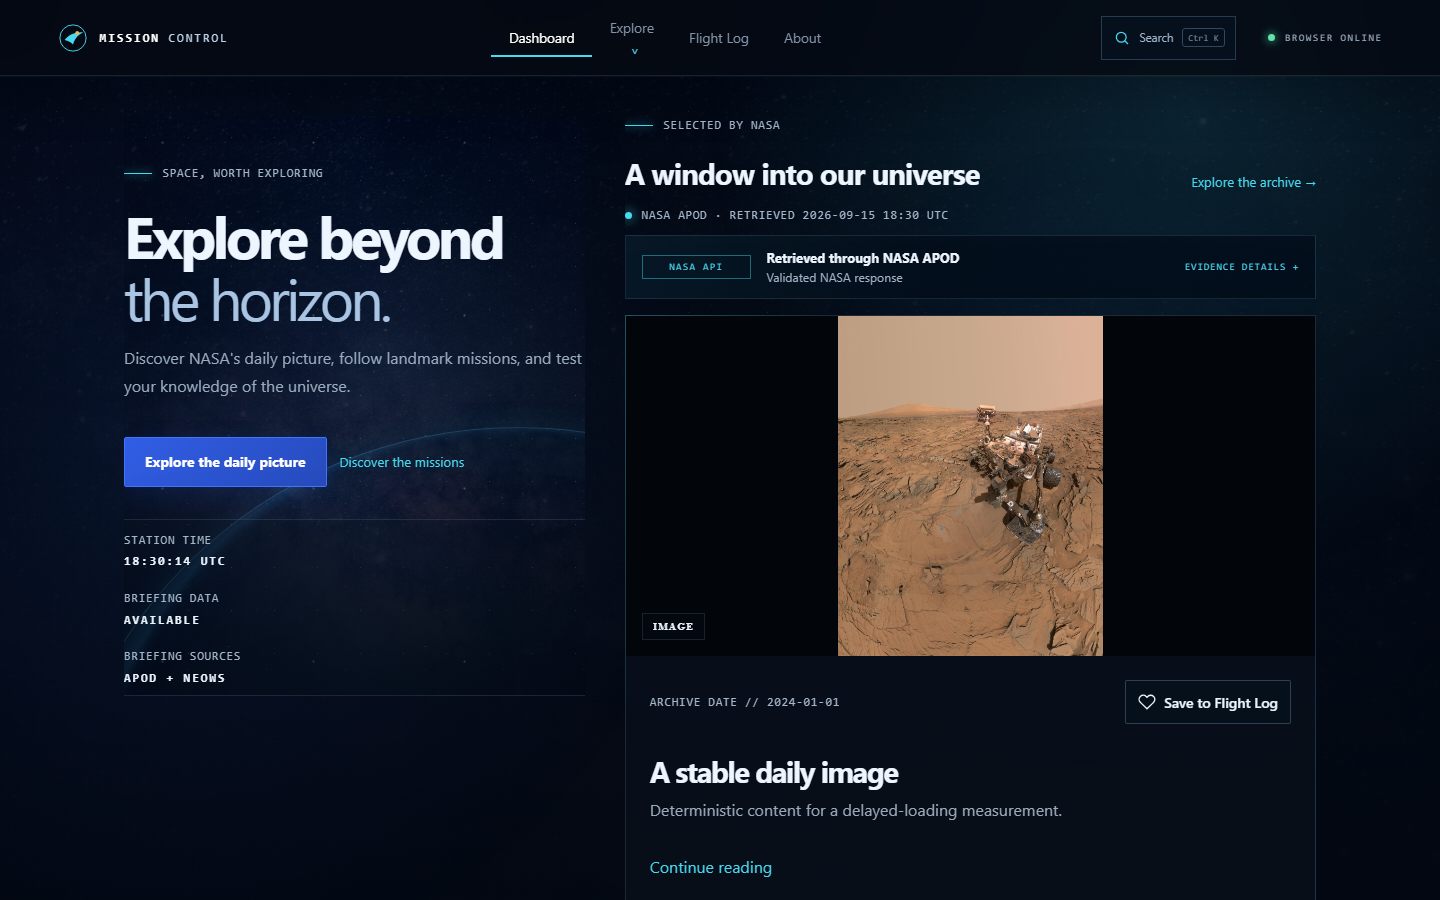
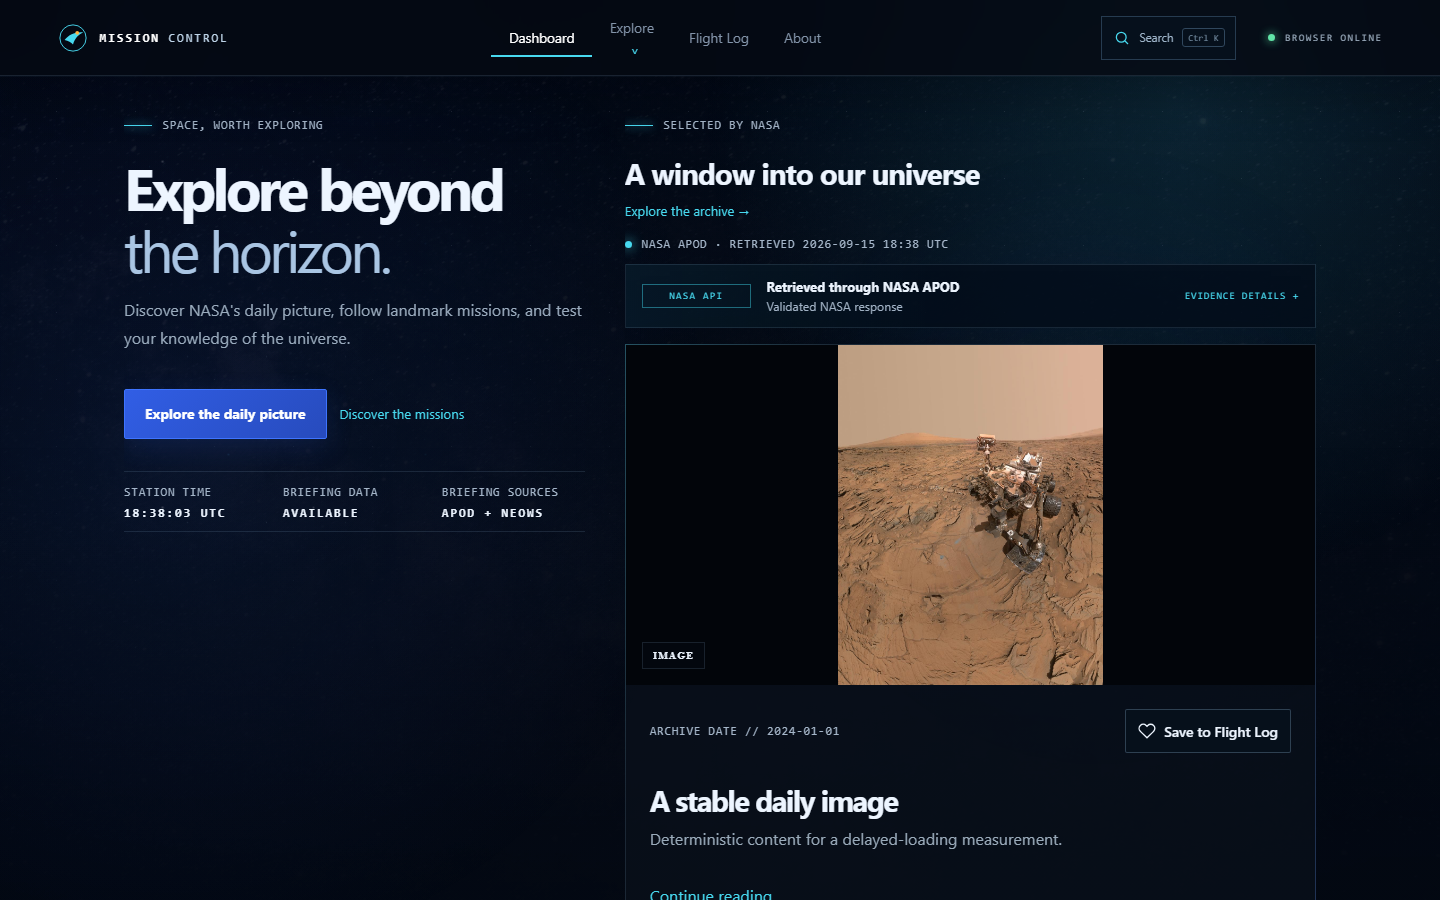
fix: align and connect desktop homepage sections

diff --git a/apps/client/src/styles/global.css b/apps/client/src/styles/global.css
@@ -7048,11 +7048,14 @@ main :is(a, button, input, select, textarea, summary) {
 }
 .dashboard-first-look .dashboard-hero {
   align-self: start;
-  padding-top: 3rem;
+  padding-top: 0;
 }
 .dashboard-first-look .telemetry {
-  grid-template-columns: 1fr;
+  grid-template-columns: repeat(3, minmax(0, 1fr));
+  gap: 1rem;
   margin-top: 2rem;
+  background: none;
+  box-shadow: none;
 }
 .dashboard-first-look .apod-panel {
   display: block;
@@ -7148,4 +7151,25 @@ main :is(a, button, input, select, textarea, summary) {
 }
 .dashboard-first-look .briefing .state-panel--loading {
   min-height: 680px;
+}
+
+@media (min-width: 901px) {
+  .dashboard-first-look .dashboard-hero::before,
+  .dashboard-first-look .dashboard-hero::after {
+    background: none;
+  }
+  .dashboard-first-look .hero-immersion__horizon {
+    display: none;
+  }
+  .dashboard-first-look .hero-immersion {
+    mask-image: linear-gradient(to right, #000, transparent);
+  }
+  .dashboard-first-look .section-heading {
+    align-items: start;
+    flex-direction: column;
+    gap: 0.75rem;
+  }
+  .dashboard-first-look .telemetry strong {
+    overflow-wrap: anywhere;
+  }
 }

diff --git a/docs/launch-polish.md b/docs/launch-polish.md
@@ -10,6 +10,8 @@ This cycle refines existing features before promoting the site.
 
 ## Phase 1 verification
 
+Desktop alignment follow-up: both column introductions share the same top edge. The archive link sits beneath its heading, status details use a compact horizontal row, and the separate decorative background behind the introduction is removed on desktop. The captures below include this correction.
+
 Typecheck, lint, unit/component/accessibility tests, production build, and the production browser suite passed. Existing compressed asset budgets remain satisfied. The delayed-font/data fixture recorded zero CLS at 390px and 1440px after reserving the image frame. These are controlled measurements, not field-performance claims.
 
 The [previous desktop layout](screenshots/loading-stability/desktop.png) shows the introduction above the picture. Updated deterministic captures show the desktop side-by-side composition and mobile stack; content fixtures differ, so these are layout evidence rather than image-quality comparisons.

diff --git a/README.md b/README.md
@@ -361,6 +361,8 @@ The [current five-phase roadmap](docs/next-roadmap.md) tracks the September 8 cy
 
 87. **Implemented — Launch polish phase 1:** positioned the daily NASA picture beside a clearer desktop introduction, emphasized the APOD action, and refined the mobile stack with stable image framing. Automated validation is complete; first-impression participant validation remains planned. See the [five-phase launch roadmap and visual evidence](docs/launch-polish.md).
 
+88. **Complete — Homepage alignment follow-up:** aligned the desktop introduction and image-section headers, compacted the status row, and removed the separate desktop backdrop to connect the columns visually. Updated the [launch screenshots](docs/launch-polish.md).
+
 ## Screenshots
 
 The captures below use deterministic mocked NASA content. Regenerate them with `npm run screenshots:update` without consuming NASA API quota.
